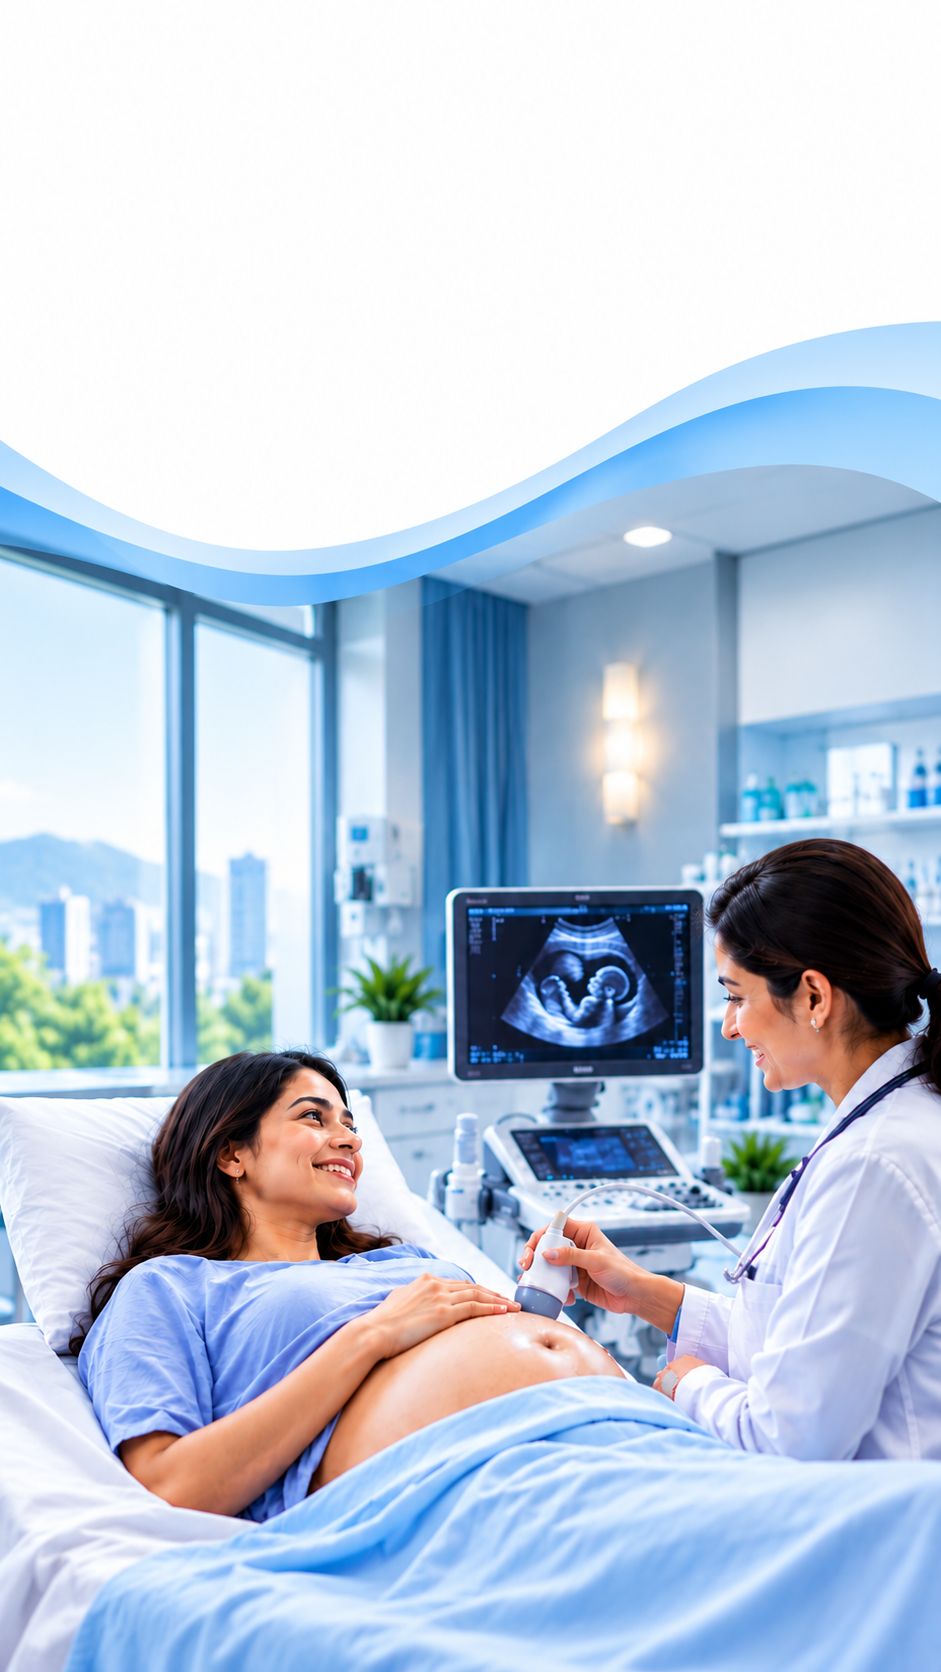
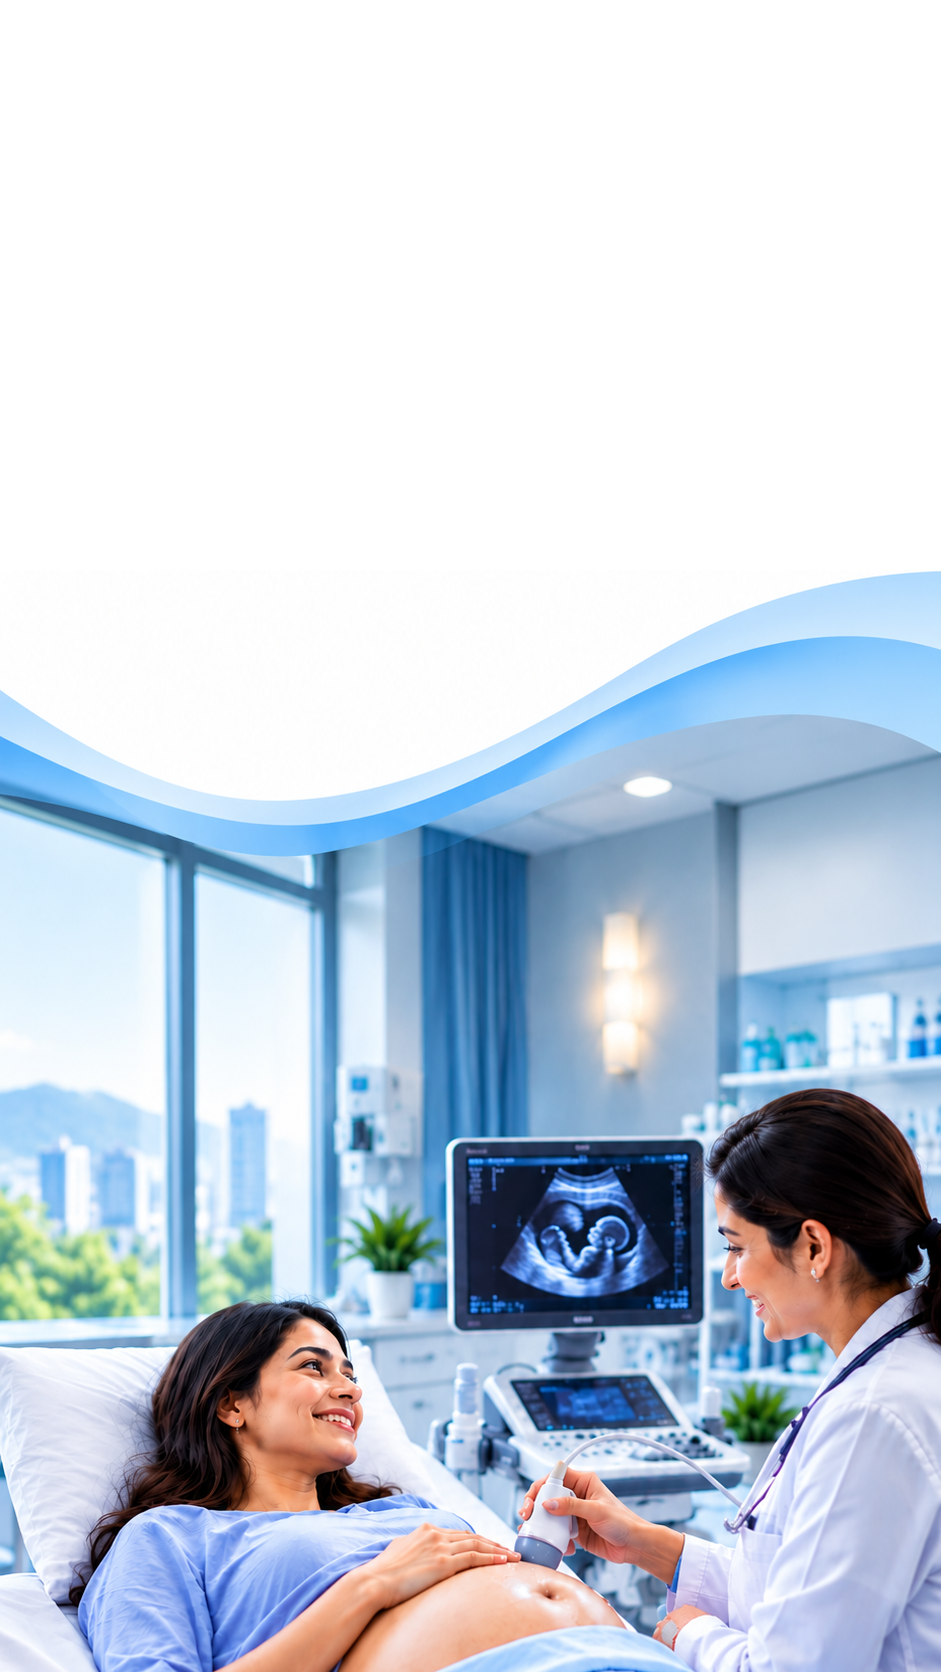
redirect and spacings updated

diff --git a/components/ui/Doctors.tsx b/components/ui/Doctors.tsx
@@ -3,7 +3,7 @@ import { ArrowRight, BriefcaseMedical, UserRound } from "lucide-react";
 import SectionLabel from "@/components/ui/SectionLabel";
 
 const doctors = [
-  { name: "Dr. Manish Goyal", department: "ENT", qualification: "M.B.B.S, M.D., ENT", experience: "10+", image: "ManishGoyal", tags: ["Ear", "Mouth & Neck Cancer Expert", "Nose", "Throat"] },
+  { name: "Dr. Manish Goyal", department: "ENT", qualification: "M.B.B.S, M.S., ENT", experience: "10+", image: "ManishGoyal", tags: ["Ear", "Mouth & Neck Cancer Expert", "Nose", "Throat"] },
   { name: "Dr. Ritu Goyal", department: "OBS & GYN", qualification: "M.B.B.S, M.S.(OBS & Gyn), Gold Medalist", experience: "10+", image: "RituGoyal", tags: ["Obstetrics", "Normal & Cesarean Delivery", "Infertility and Laparoscopic Specialist"] },
   { name: "Dr. Sunil Goyal", department: "PEDIATRICS", qualification: "M.B.B.S, M.D.", experience: "8+", image: "SunilGoyal", tags: ["Child Health", "Growth Specialist", "Development Specialist"] },
   { name: "Dr. Shikha Goyal", department: "PEDIATRICS", qualification: "M.B.B.S, M.D.", experience: "5+", image: null, tags: [] },
@@ -16,11 +16,11 @@ export default function Doctors({ compactMobile = false }: { compactMobile?: boo
 
       <div data-motion-reveal className="mb-10 flex flex-wrap items-end justify-between gap-5">
         <h2 className="font-extrabold text-primary text-[30px] leading-[1.15] tracking-[-1px] sm:text-4xl">Meet Our <span className="text-accent">Specialists</span></h2>
-        <a href="#doctors" className={`${compactMobile ? "hidden sm:flex" : "flex"} items-center gap-2 text-sm font-bold text-[#006b9d]`}>View All Doctors <ArrowRight size={16} /></a>
+        <a href="#doctors" className="flex items-center gap-2 text-sm font-bold text-[#006b9d]">View All Doctors <ArrowRight size={16} /></a>
       </div>
 
       <div data-motion-stagger className="grid gap-4 sm:grid-cols-2 lg:grid-cols-4">
-        {doctors.map(doctor => <article data-motion-hover="card" key={doctor.name} className={`relative isolate min-w-0 break-words overflow-hidden rounded-2xl bg-white p-6 shadow-[0_4px_22px_#00000026] ${compactMobile ? "mx-auto w-[calc(100%_-_48px)] max-w-[340px] sm:w-full sm:max-w-none" : ""}`}>
+        {doctors.map(doctor => <article data-motion-hover="card" key={doctor.name} className="relative isolate min-w-0 break-words overflow-hidden rounded-2xl bg-white p-6 shadow-[0_4px_22px_#00000026]">
           <Image src="/Home/doctorcardBG.png" fill alt="" sizes="(max-width: 639px) 100vw, (max-width: 1023px) 50vw, 25vw" className="-z-10 object-cover" />
           <div className="mb-6 flex h-[163px] items-center justify-center">
             {doctor.image ? <span className="relative isolate block h-[163px] w-[153px]">

diff --git a/components/facilities/ENTCareSection.tsx b/components/facilities/ENTCareSection.tsx
@@ -29,13 +29,13 @@ export default function ENTCareSection() {
     <section aria-labelledby="ent-care-heading" className="bg-[#f8fbff] py-10 sm:py-14 lg:py-20 overflow-hidden">
       <div className="mx-auto grid max-w-[1240px] items-center gap-6 lg:grid-cols-2 lg:gap-14 px-5 xl:px-0 min-w-0">
         {/* Image: On top in mobile (order-1), right on desktop (lg:order-2) */}
-        <div data-motion-reveal className="relative mx-auto w-[88%] max-w-[310px] min-[390px]:max-w-[330px] sm:w-full sm:max-w-[420px] lg:max-w-[560px] min-w-0 order-1 lg:order-2">
-          <div className="relative h-[165px] min-[390px]:h-[185px] sm:h-[220px] lg:h-[340px] xl:h-[370px] w-full overflow-hidden rounded-2xl sm:rounded-3xl shadow-[0_8px_30px_#0000000d]">
+        <div data-motion-reveal className="relative mx-auto w-full sm:max-w-[420px] lg:max-w-[560px] min-w-0 order-1 lg:order-2">
+          <div className="relative h-[200px] min-[390px]:h-[220px] sm:h-[220px] lg:h-[340px] xl:h-[370px] w-full overflow-hidden rounded-2xl sm:rounded-3xl shadow-[0_8px_30px_#0000000d]">
             <Image
               src="/facilities/maternitycare2.png"
               alt="Expert ENT Specialist examining patient at Shree Goyal Hospital"
               fill
-              sizes="(max-width: 639px) 330px, (max-width: 1023px) 420px, 560px"
+              sizes="(max-width: 639px) 100vw, (max-width: 1023px) 420px, 560px"
               className="object-cover"
             />
           </div>
@@ -58,7 +58,7 @@ export default function ENTCareSection() {
             From accurate diagnosis to advanced treatment, we provide personalized care for ear, nose, throat and hearing conditions.
           </p>
 
-          <div className="mt-6 sm:mt-8 flex overflow-x-auto gap-3.5 pb-2 px-5 -mx-5 [scrollbar-width:none] [&::-webkit-scrollbar]:hidden snap-x snap-mandatory touch-auto sm:mx-0 sm:px-0 sm:grid sm:grid-cols-4 sm:overflow-visible">
+          <div className="mt-6 sm:mt-8 flex overflow-x-auto gap-3.5 pb-2 [scrollbar-width:none] [&::-webkit-scrollbar]:hidden snap-x snap-mandatory touch-auto sm:grid sm:grid-cols-4 sm:overflow-visible">
             {entServices.map(({ title, icon: Icon }) => (
               <div
                 key={title}

diff --git a/components/facilities/MaternityCareSection.tsx b/components/facilities/MaternityCareSection.tsx
@@ -31,13 +31,13 @@ export default function MaternityCareSection() {
     <section aria-labelledby="maternity-care-heading" className="bg-[#f8fbff] py-10 sm:py-14 lg:py-20 overflow-hidden">
       <div className="mx-auto grid max-w-[1240px] items-center gap-6 lg:grid-cols-2 lg:gap-14 px-5 xl:px-0 min-w-0">
         {/* Left Side: Image */}
-        <div data-motion-reveal className="relative mx-auto w-[88%] max-w-[310px] min-[390px]:max-w-[330px] sm:w-full sm:max-w-[420px] lg:max-w-[560px] min-w-0">
-          <div className="relative h-[165px] min-[390px]:h-[185px] sm:h-[220px] lg:h-[340px] xl:h-[370px] w-full overflow-hidden rounded-2xl sm:rounded-3xl shadow-[0_8px_30px_#0000000d]">
+        <div data-motion-reveal className="relative mx-auto w-full sm:max-w-[420px] lg:max-w-[560px] min-w-0">
+          <div className="relative h-[200px] min-[390px]:h-[220px] sm:h-[220px] lg:h-[340px] xl:h-[370px] w-full overflow-hidden rounded-2xl sm:rounded-3xl shadow-[0_8px_30px_#0000000d]">
             <Image
               src="/facilities/maternitycare.jpg"
               alt="Compassionate Maternity and Women's Healthcare"
               fill
-              sizes="(max-width: 639px) 330px, (max-width: 1023px) 420px, 560px"
+              sizes="(max-width: 639px) 100vw, (max-width: 1023px) 420px, 560px"
               className="object-cover"
             />
           </div>
@@ -60,7 +60,7 @@ export default function MaternityCareSection() {
             From routine checkups to advanced procedures, we provide personalized and compassionate care for women.
           </p>
 
-          <div className="mt-6 sm:mt-8 flex overflow-x-auto gap-3.5 pb-2 px-5 -mx-5 [scrollbar-width:none] [&::-webkit-scrollbar]:hidden snap-x snap-mandatory touch-auto sm:mx-0 sm:px-0 sm:grid sm:grid-cols-4 sm:overflow-visible">
+          <div className="mt-6 sm:mt-8 flex overflow-x-auto gap-3.5 pb-2 [scrollbar-width:none] [&::-webkit-scrollbar]:hidden snap-x snap-mandatory touch-auto sm:grid sm:grid-cols-4 sm:overflow-visible">
             {maternityServices.map(({ title, icon: Icon }) => (
               <div
                 key={title}

diff --git a/components/about/Facilities.tsx b/components/about/Facilities.tsx
@@ -23,7 +23,7 @@ export default function Facilities() {
         <Image data-motion-reveal src="/About/facilityMain.png" alt="The hospital’s modern operation theatre and medical team" width={752} height={286} sizes="(max-width: 767px) 90vw, 55vw" className="hidden h-auto w-full rounded-xl shadow-[0_12px_32px_#0b3d9126] md:block" />
       </div>
 
-      <div data-lenis-prevent-horizontal data-motion-stagger className="-mx-4 mt-6 flex snap-x snap-proximity gap-4 overflow-x-auto overscroll-x-contain scroll-px-4 px-4 py-4 [scrollbar-width:none] [&::-webkit-scrollbar]:hidden sm:mx-0 sm:mt-10 sm:grid sm:grid-cols-3 sm:overflow-visible sm:px-0 sm:scroll-px-0 lg:grid-cols-5">
+      <div data-lenis-prevent-horizontal data-motion-stagger className="mt-6 flex snap-x snap-proximity gap-4 overflow-x-auto overscroll-x-contain py-4 [scrollbar-width:none] [&::-webkit-scrollbar]:hidden sm:mt-10 sm:grid sm:grid-cols-3 sm:overflow-visible lg:grid-cols-5">
         {facilities.map(facility => <a key={facility.name} data-motion-hover="card" href="/facilities" className="group block min-w-0 basis-[145px] min-[390px]:basis-[160px] shrink-0 snap-start text-center sm:basis-auto focus-visible:outline-2 focus-visible:outline-offset-4 focus-visible:outline-primary">
           <Image src={`/About/${facility.image}.png`} alt={facility.name} width={237} height={110} sizes="(max-width: 639px) 45vw, (max-width: 1023px) 30vw, 20vw" className="h-auto w-full rounded-xl shadow-[0_6px_18px_#0b3d911a] transition-shadow duration-300 group-hover:shadow-[0_10px_24px_#0b3d9126]" />
           <h3 className="mt-3 text-sm font-semibold group-hover:text-primary">{facility.name}</h3>

diff --git a/components/home/Blogs.tsx b/components/home/Blogs.tsx
@@ -24,7 +24,7 @@ export default async function Blogs() {
         <ActionLink href="/blogs" outline>View All Articles</ActionLink>
       </div>
 
-      <div data-motion-stagger id="articles" data-lenis-prevent-horizontal className="-mx-4 flex min-w-0 snap-x snap-proximity gap-6 overflow-x-auto overscroll-x-contain scroll-px-4 px-4 py-2 [scrollbar-width:none] [&::-webkit-scrollbar]:hidden sm:mx-0 sm:grid sm:grid-cols-3 sm:overflow-visible sm:px-0 sm:py-0 sm:scroll-px-0">
+      <div data-motion-stagger id="articles" data-lenis-prevent-horizontal className="flex min-w-0 snap-x snap-proximity gap-6 overflow-x-auto overscroll-x-contain py-2 [scrollbar-width:none] [&::-webkit-scrollbar]:hidden sm:grid sm:grid-cols-3 sm:overflow-visible sm:py-0">
         {articles.map(article => <article data-motion-hover="card" key={article.title} className="flex min-w-0 break-words flex-col overflow-hidden rounded-2xl border border-slate-100 bg-white shadow-[0_4px_15px_#0000000d] basis-[calc(72%-12px)] shrink-0 snap-start sm:basis-auto sm:shrink">
           <div className="relative">
             <Image src={article.mainBannerImage} alt={article.title} width={398} height={224} sizes="(max-width: 767px) 100vw, 33vw" className="aspect-[398/224] w-full object-cover" />

diff --git a/components/maternity/MaternityCategories.tsx b/components/maternity/MaternityCategories.tsx
@@ -25,7 +25,7 @@ const categories = [
 export default function MaternityCategories() {
   return (
     <section aria-label="Maternity care specialties" className="relative z-10 mx-auto -mt-12 sm:-mt-14 lg:-mt-16 max-w-[1240px] px-4 pb-2 sm:px-5 md:px-5 md:pb-12 xl:px-0">
-      <div data-lenis-prevent-horizontal data-motion-stagger className="-mx-4 flex min-w-0 scroll-px-4 snap-x snap-proximity gap-3 overflow-x-auto overscroll-x-contain px-4 py-4 [scrollbar-width:none] [&::-webkit-scrollbar]:hidden md:mx-0 md:grid md:grid-cols-3 md:px-0 md:scroll-px-0 md:overflow-visible lg:grid-cols-9">
+      <div data-lenis-prevent-horizontal data-motion-stagger className="flex min-w-0 snap-x snap-proximity gap-3 overflow-x-auto overscroll-x-contain py-4 [scrollbar-width:none] [&::-webkit-scrollbar]:hidden md:grid md:grid-cols-3 md:overflow-visible lg:grid-cols-9">
         {categories.map(({ title, icon: Icon, href }) => (
           <a
             key={title}

diff --git a/components/services/ServiceCategories.tsx b/components/services/ServiceCategories.tsx
@@ -14,7 +14,7 @@ const categories = [
 export default function ServiceCategories() {
   return (
     <section aria-label="Service specialties" className="relative z-10 mx-auto -mt-12 sm:-mt-14 lg:-mt-16 max-w-[1240px] px-4 pb-2 sm:px-5 md:px-5 md:pb-12 xl:px-0">
-      <div data-lenis-prevent-horizontal data-motion-stagger className="-mx-4 flex min-w-0 scroll-px-4 snap-x snap-proximity gap-3 overflow-x-auto overscroll-x-contain px-4 py-4 [scrollbar-width:none] [&::-webkit-scrollbar]:hidden md:mx-0 md:grid md:grid-cols-4 md:px-0 md:scroll-px-0 md:overflow-visible lg:grid-cols-8">
+      <div data-lenis-prevent-horizontal data-motion-stagger className="flex min-w-0 snap-x snap-proximity gap-3 overflow-x-auto overscroll-x-contain py-4 [scrollbar-width:none] [&::-webkit-scrollbar]:hidden md:grid md:grid-cols-4 md:overflow-visible lg:grid-cols-8">
         {categories.map(({ title, icon: Icon, href }) => (
           <a
             key={title}

diff --git a/components/maternity/MaternityHero.tsx b/components/maternity/MaternityHero.tsx
@@ -26,12 +26,12 @@ export default function MaternityHero() {
             Compassionate Care<br />
             <span className="text-accent">for Every New Beginning</span>
           </h1>
-          <p className="mt-4 text-[clamp(12px,3.55vw,14px)] sm:text-base leading-relaxed text-foreground">
+          <p className="mt-3 text-[clamp(12px,3.55vw,14px)] sm:text-base leading-relaxed text-foreground">
             We provide comprehensive maternity care with experienced doctors, modern facilities, personalised guidance, and compassionate support to ensure the health, comfort, and wellbeing of every mother and baby.
           </p>
 
           <div className="mt-5 flex flex-wrap gap-4 md:mt-8">
-            <ActionLink href="#antenatal-care">Book Appointment</ActionLink>
+            <ActionLink href="/#appointment">Book Appointment</ActionLink>
           </div>
         </div>
       </div>

diff --git a/components/about/Commitment.tsx b/components/about/Commitment.tsx
@@ -12,7 +12,7 @@ export default function Commitment() {
         <ActionLink href="/services" outline className="mt-6 border-transparent bg-secondary">Book Services</ActionLink>
       </div>
 
-      <figure data-motion-reveal className="mx-auto w-[90%] min-w-0 break-words rounded-2xl bg-white p-5 sm:w-full sm:p-6">
+      <figure data-motion-reveal className="mx-auto w-full min-w-0 break-words rounded-2xl bg-white p-5 sm:p-6">
         <Quote size={28} aria-hidden="true" className="mb-3 rotate-180 fill-accent text-accent" />
         <blockquote className="min-h-28 text-sm sm:text-base font-semibold italic leading-6 text-foreground">We believe in treating every patient like family and offering care with honesty, empathy and excellence.</blockquote>
         <figcaption className="mt-6 flex items-center gap-3 border-t border-blue-100 pt-4">

diff --git a/components/ui/CareHighlights.tsx b/components/ui/CareHighlights.tsx
@@ -13,7 +13,7 @@ export default function CareHighlights({ servicesHref = "#services" }: { service
       data-motion-stagger
       className="relative z-10 mx-auto -mt-12 sm:-mt-16 lg:-mt-20 max-w-[1240px] px-5 pb-6 sm:pb-10 xl:px-0"
     >
-      <div className="flex overflow-x-auto gap-4 pb-4 pt-1 px-5 -mx-5 [scrollbar-width:none] [&::-webkit-scrollbar]:hidden snap-x snap-mandatory touch-auto sm:mx-0 sm:px-0 sm:grid sm:grid-cols-2 lg:grid-cols-4 sm:overflow-visible sm:gap-5">
+      <div className="flex overflow-x-auto gap-4 pb-4 pt-1 [scrollbar-width:none] [&::-webkit-scrollbar]:hidden snap-x snap-mandatory touch-auto sm:grid sm:grid-cols-2 lg:grid-cols-4 sm:overflow-visible sm:gap-5">
         {items.map(item => (
           <a
             data-motion-hover="card"

diff --git a/components/facilities/FacilitiesHighlights.tsx b/components/facilities/FacilitiesHighlights.tsx
@@ -29,7 +29,7 @@ export default function FacilitiesHighlights() {
       {/* Mobile: Horizontal Swipeable Carousel (Peek next card) | Desktop: 4-Column Grid */}
       <div
         data-motion-stagger
-        className="flex overflow-x-auto gap-4 pb-4 pt-1 px-5 -mx-5 [scrollbar-width:none] [&::-webkit-scrollbar]:hidden snap-x snap-mandatory touch-auto sm:mx-0 sm:px-0 sm:grid sm:grid-cols-2 sm:gap-5 sm:overflow-visible lg:grid-cols-4"
+        className="flex overflow-x-auto gap-4 pb-4 pt-1 [scrollbar-width:none] [&::-webkit-scrollbar]:hidden snap-x snap-mandatory touch-auto sm:grid sm:grid-cols-2 sm:gap-5 sm:overflow-visible lg:grid-cols-4"
       >
         {highlights.map(({ icon: Icon, title, desc }) => (
           <article

diff --git a/components/contact/ContactCards.tsx b/components/contact/ContactCards.tsx
@@ -64,7 +64,7 @@ export default function ContactCards() {
       {/* Mobile: Horizontal Swipeable Carousel (Peek next card) | Desktop: 4-Column Grid */}
       <div
         data-motion-stagger
-        className="flex overflow-x-auto gap-4 pb-4 pt-1 px-5 -mx-5 [scrollbar-width:none] [&::-webkit-scrollbar]:hidden snap-x snap-mandatory touch-auto sm:mx-0 sm:px-0 sm:grid sm:grid-cols-2 sm:gap-5 sm:overflow-visible lg:grid-cols-4"
+        className="flex overflow-x-auto gap-4 pb-4 pt-1 [scrollbar-width:none] [&::-webkit-scrollbar]:hidden snap-x snap-mandatory touch-auto sm:grid sm:grid-cols-2 sm:gap-5 sm:overflow-visible lg:grid-cols-4"
       >
         {contactCards.map(({ icon: Icon, title, content }) => (
           <article
